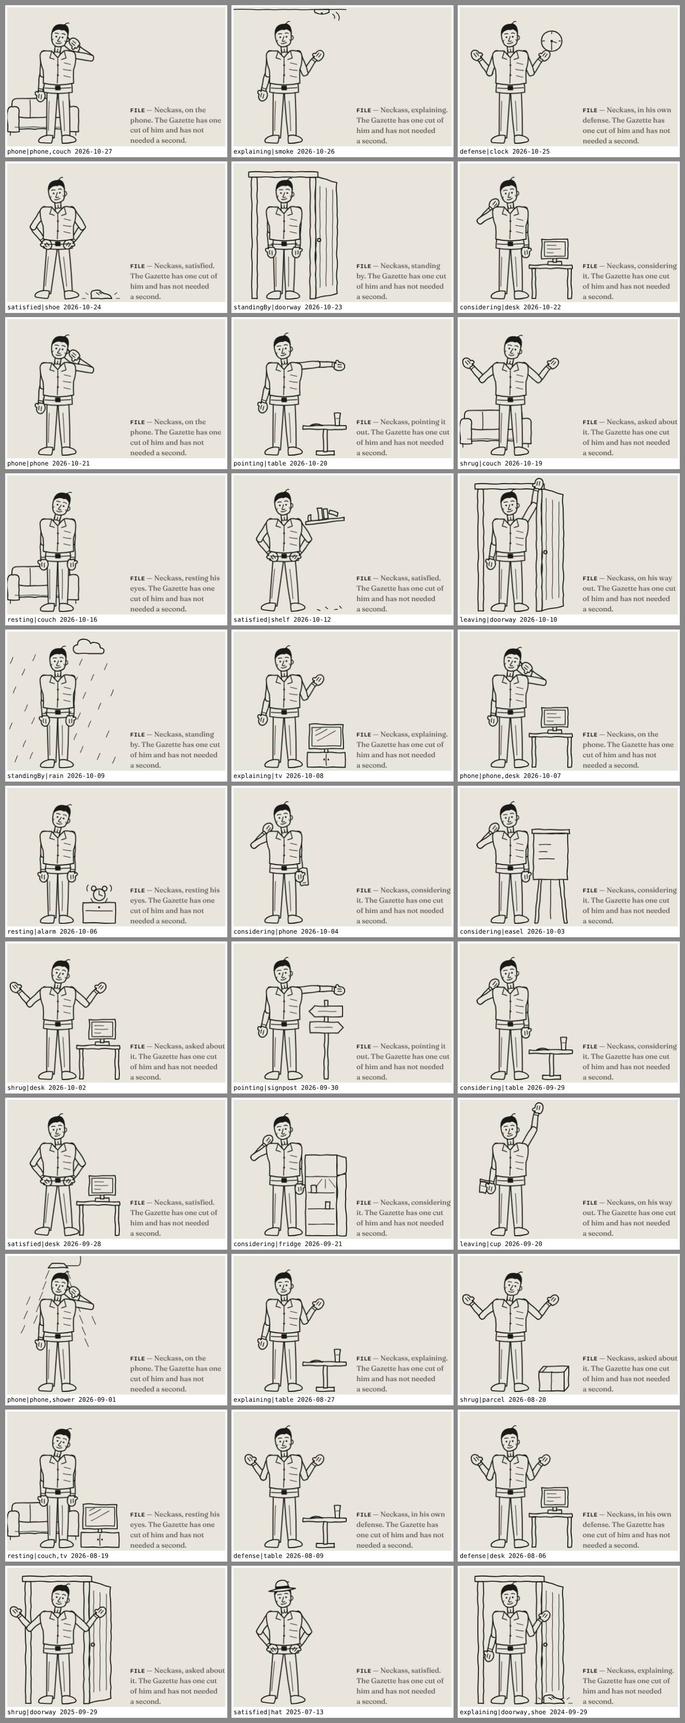
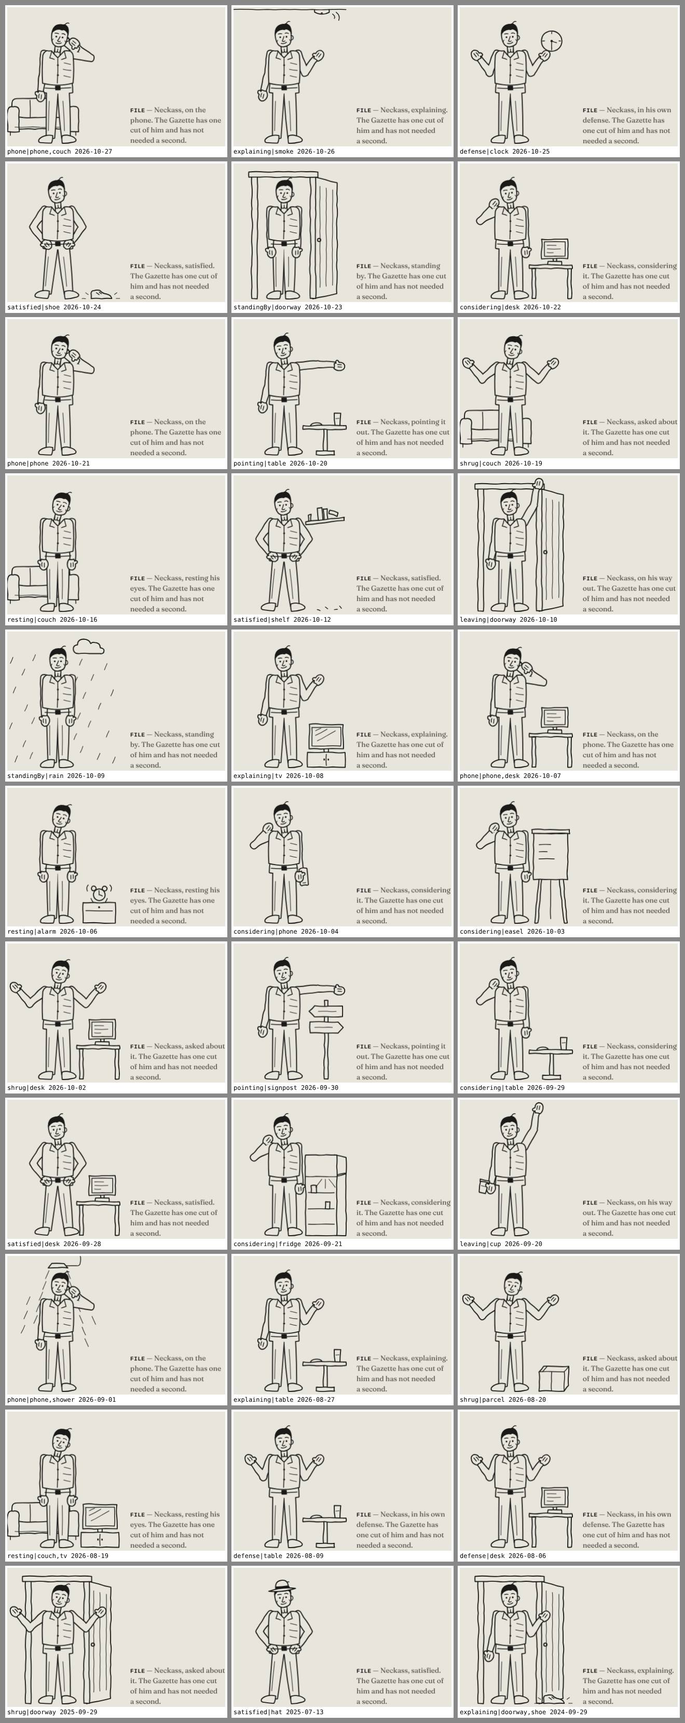
design: no line where a pen would not draw one
The cut drew every piece's whole edge, so wherever two pieces met there
was a line no one would draw:

- A seam across each elbow, where the end of the upper arm lay over the
  forearm. Each arm is now one shape: its edges drawn first at twice the
  weight (.outline), its fills over them (.body), so only the outside of
  the whole shows, and a bent elbow is a bend in the sleeve.
- A line across the trousers under the belt, where the hips ended. The
  legs and the hips are one shape the same way.
- A cuff line beside the wrist line. The hand's own edge is the end of
  the sleeve; the cuffs are gone.
- The arm's edge running along the jacket's edge, a doubled line down
  each side. The jacket is narrower, so the arms hang beside it with
  room between, and their round tops are his shoulders.
- Doubled edges in the props, where one piece's edge lay along
  another's: the monitor's foot on the desk, the television's stand, the
  plate and the glass on the table, the doorposts under the lintel, the
  door against its post, the fridge doors against the body, the books on
  the shelf, the cup's lid on the cup, the smoke alarm on the ceiling,
  and every shared edge of the parcel. Each is tucked under the piece it
  meets, or drawn as one outline with its inner edges drawn once.

The new classes are in the rig, the page and the card alike, and the
three copies are still one generated source. The still cards are
redrawn.
[…]

diff --git a/index.html b/index.html
@@ -106,11 +106,11 @@
                             <svg class="cut-figure" id="cut-figure" viewBox="0 0 182 278" width="182" height="278" role="img" aria-label="Line-cut of a man standing with one hand raised, explaining.">
                                 <g class="scene">
                                     <g class="scene-doorway">
-                                        <path class="part" d="M146 -2.3 q11.8 3.7 24 6.4 q11.3 5.4 23.6 7.6 q-2.6 12.4 -0.4 24.8 q1 12.4 0.7 24.8 q0.9 12.4 0.2 24.8 q2.2 12.4 0 24.8 q2 12.4 -0.2 24.8 q0.8 12.4 -0.2 24.8 q-1.7 12.4 0.8 24.8 q1.1 12.4 -1 24.8 q-1.5 12.4 1.1 24.8 q-2 12.4 -0.2 24.8 q-11.6 4.5 -24 5.1 q-12.3 1.2 -24 5.4 q1.3 -13.6 0.1 -27.3 q-2.1 -13.6 -0.3 -27.3 q-1.1 -13.6 0 -27.3 q2.1 -13.6 -0.1 -27.3 q2.2 -13.6 0.5 -27.3 q-1.5 -13.6 -0.8 -27.3 q-0.5 -13.6 0.4 -27.3 q-0.4 -13.6 -0.5 -27.3 q0 -13.6 0.5 -27.3 q-0.4 -13.6 -0.3 -27.3 z" />
+                                        <path class="part" d="M139.9 -2.1 q13.5 3.7 27.2 6.9 q13.1 5.2 27.1 7.1 q0.4 12.4 -0.7 24.8 q2.1 12.4 -0.1 24.8 q2.2 12.4 1.2 24.8 q-2.4 12.4 -1.2 24.8 q0.3 12.4 0.1 24.8 q2.6 12.4 0.6 24.8 q-0.8 12.4 -0.1 24.8 q-2.1 12.4 0.3 24.8 q0 12.4 -0.4 24.8 q-1.7 12.4 -0.4 24.8 q-13.3 3.4 -26.7 6.2 q-13.7 1.7 -26.8 5.6 q1.3 -12.4 -0.4 -24.9 q2.1 -12.4 -0.4 -24.9 q2.2 -12.4 0.8 -24.9 q1 -12.4 -0.6 -24.9 q-1.1 -12.4 0.4 -24.9 q0.4 -12.4 0.4 -24.9 q-1.3 -12.4 -0.7 -24.9 q-0.5 -12.4 0.1 -24.9 q-1.9 -12.4 0 -24.9 q-2 -12.4 -0.4 -24.9 q-1.2 -12.4 0.4 -24.9 z" />
                                         <circle class="part" cx="154" cy="140" r="3.5" />
                                         <path class="hatch" d="M155.9 20 q-0.2 12.6 0.3 25.1 q-1.4 12.6 -0.6 25.1 q0.1 12.6 0.4 25.1 q1 12.6 -0.4 25.1 q1 12.6 0.5 25.1 q-0.7 12.6 -0.1 25.1 q1 12.6 -0.2 25.1 q0.3 12.6 -0.1 25.1 q1.3 12.6 0.3 25.1 m13.7 -222.2 q1.2 13.8 0 27.5 q0.8 13.8 -0.1 27.5 q0.8 13.8 -0.1 27.5 q-0.4 13.8 0.5 27.5 q1 13.8 -0.2 27.5 q0.9 13.8 0.2 27.5 q0.6 13.8 -0.5 27.5 q-0.9 13.8 0.3 27.5 m14.4 -216.1 q0.1 13.4 0.2 26.7 q-0.9 13.4 -0.1 26.7 q0.5 13.4 -0.5 26.7 q0.7 13.4 -0.1 26.7 q-0.9 13.4 0.1 26.7 q-0.7 13.4 0.1 26.7 q-0.6 13.4 0.2 26.7 q0.5 13.4 -0.2 26.7" />
-                                        <path class="part" d="M4.1 -0.3 q5.8 -1.2 11.5 0.3 q0.4 13.5 0.7 27.1 q-2.1 13.6 0.1 27.1 q-2.3 13.6 -0.8 27.1 q2.1 13.5 0.2 27.1 q1.9 13.5 -0.5 27.1 q1.3 13.5 1.2 27.1 q-0.8 13.5 -0.3 27.1 q-1.3 13.5 0.4 27.1 q-1.1 13.5 0 27.1 q-2 13.6 -0.5 27.1 q-5.9 -0.8 -11.9 -0.2 q0.3 -13.6 -0.7 -27.1 q0.2 -13.6 0.8 -27.1 q0.3 -13.6 0.4 -27.1 q-2 -13.6 -1.1 -27.1 q2.5 -13.6 0.4 -27.1 q-0.5 -13.6 -0.7 -27.1 q0.3 -13.6 0.1 -27.1 q1.2 -13.6 0.6 -27.1 q-2.3 -13.6 -0.7 -27.1 q-1.8 -13.6 0.5 -27.1 z" />
-                                        <path class="part" d="M133.9 0.4 q6.2 -0.6 12.4 0 q1 13.5 -0.6 27.1 q-1.9 13.5 -0.2 27.1 q-1.3 13.5 0.4 27.1 q1.5 13.5 -0.4 27.1 q1.9 13.5 1.2 27.1 q-1.1 13.5 -0.3 27.1 q-2.6 13.5 -0.7 27.1 q2.4 13.5 0 27.1 q2 13.5 0.9 27.1 q1 13.5 -0.8 27.1 q-6 -0.2 -12 0.1 q0.7 -13.5 0.1 -27.1 q-2.1 -13.5 0.6 -27.1 q-1.6 -13.5 -0.1 -27.1 q-1.6 -13.5 -0.8 -27.1 q2.1 -13.5 1 -27.1 q-2 -13.5 0 -27.1 q-0.7 -13.5 -0.2 -27.1 q-0.9 -13.5 -0.2 -27.1 q0.7 -13.5 -0.2 -27.1 q-1.2 -13.5 -0.2 -27.1 z" />
+                                        <path class="part" d="M3.9 -6 q6.3 -1.6 12.6 0.3 q-0.6 12.6 0.4 25.2 q-0.4 12.6 -0.8 25.2 q2.3 12.6 0.8 25.2 q1.2 12.6 -0.1 25.2 q-1.3 12.6 0 25.2 q0.3 12.6 -0.9 25.2 q-0.7 12.6 -0.2 25.2 q0.9 12.6 0.7 25.2 q0.1 12.6 -0.5 25.2 q-0.1 12.6 0.3 25.2 q0.8 12.6 -0.4 25.2 q-6 -0.1 -11.9 -0.6 q-1.4 -12.6 0.2 -25.1 q-0.2 -12.6 -0.8 -25.1 q-1.8 -12.6 0.6 -25.1 q-0.2 -12.6 0.8 -25.1 q0.2 -12.6 -1.1 -25.1 q-0.2 -12.6 0.9 -25.1 q2.2 -12.6 0.2 -25.1 q-2.5 -12.6 -0.4 -25.1 q-2.1 -12.6 -0.1 -25.1 q1.1 -12.6 -0.1 -25.1 q-1.9 -12.6 0 -25.1 z" />
+                                        <path class="part" d="M134.4 -6.3 q5.8 0.8 11.5 0 q0.7 12.6 0.7 25.2 q0 12.6 -0.7 25.2 q1.1 12.6 0.1 25.2 q1.8 12.6 -0.3 25.2 q-0.6 12.6 0.1 25.2 q-0.4 12.6 -0.1 25.2 q0 12.6 -0.1 25.2 q-0.3 12.6 0.1 25.2 q-1.3 12.6 1.2 25.2 q0.2 12.6 0.1 25.2 q0.8 12.6 -0.6 25.2 q-6.1 -0.8 -12.1 -0.4 q-0.8 -12.6 -0.2 -25.2 q0.7 -12.6 0.5 -25.2 q-2.7 -12.6 -0.7 -25.2 q-0.7 -12.6 0.8 -25.2 q2.2 -12.6 0.6 -25.2 q0.4 -12.6 -1.3 -25.2 q0.3 -12.6 1 -25.2 q-2.6 -12.6 -0.8 -25.2 q-0.6 -12.6 0.2 -25.2 q2.7 -12.6 0.7 -25.2 q-2.5 -12.6 -0.3 -25.2 z" />
                                         <path class="part" d="M-2.3 -12.1 q12.8 -1.3 25.6 -0.5 q12.8 1.3 25.6 0.6 q12.8 -1.6 25.6 -0.5 q12.8 -0.9 25.6 0.3 q12.8 -1.5 25.6 -0.4 q12.8 -0.9 25.6 0.6 q0 5.9 0.1 11.8 q-12.8 -0.2 -25.7 0.2 q-12.8 -2.1 -25.7 -0.4 q-12.8 -0.4 -25.7 -0.6 q-12.8 2 -25.7 0.5 q-12.8 -1.6 -25.7 -0.1 q-12.8 -0.3 -25.7 0.1 q-0.9 -5.8 0 -11.7 z" />
                                     </g>
                                     <g class="scene-couch">
@@ -123,20 +123,20 @@
                                         <path class="hatch" d="M-19.8 235.8 q14 1.1 28 0 q14 -0.9 28 0.4 q14 0.5 28 0.2 q14 -0.6 28 -0.2" />
                                     </g>
                                     <g class="scene-fridge">
+                                        <path class="part" d="M187.9 140.4 q13.5 -2 26.3 -6.6 q-1 13.8 -0.4 27.6 q-0.3 13.8 -0.3 27.6 q0.7 13.8 -0.1 27.6 q2.6 13.8 0.8 27.6 q0.5 13.8 -0.5 27.6 q-12.9 0.4 -25.7 -0.8 q2.2 -13.1 0.7 -26.1 q1.7 -13.1 -0.9 -26.1 q1.8 -13.1 0.8 -26.1 q-2 -13.1 -0.9 -26.1 q2.4 -13.1 0.2 -26.1 z" />
+                                        <path class="part" d="M188.3 91.7 q13.1 2.2 25.9 5.9 q1.3 17.4 0.2 34.7 q-13.5 1.1 -26 6.1 q-0.6 -11.7 0.7 -23.4 q-1.8 -11.7 -0.7 -23.4 z" />
                                         <path class="part" d="M123.8 92.1 q11.7 -0.3 23.3 -0.2 q11.7 1.6 23.3 -0.4 q11.7 0.8 23.3 0.7 q0.9 12.8 -0.4 25.6 q1.5 12.8 0.8 25.6 q-1.6 12.8 -0.7 25.6 q-0.9 12.8 0.6 25.6 q-0.5 12.8 -1 25.6 q-0.5 12.8 0.7 25.6 q0.9 12.8 -0.1 25.6 q-11.6 -0.1 -23.2 0.6 q-11.6 -0.5 -23.2 -0.4 q-11.6 0.4 -23.2 -0.4 q1.1 -12.8 0 -25.5 q0.1 -12.8 -0.6 -25.5 q1.3 -12.8 0.6 -25.5 q2.1 -12.8 -0.3 -25.5 q-1.1 -12.8 -0.5 -25.5 q-0.5 -12.8 0 -25.5 q-1.7 -12.8 0.4 -25.5 z" />
                                         <path class="detail" d="M123.9 140 q11.6 0.9 23.3 -0.2 q11.6 0 23.3 0.4 q11.6 0.4 23.3 0" />
                                         <path class="detail" d="M129.9 175.8 q14.5 -0.3 28.9 0.4 q14.5 1 28.9 -0.2 m-58.1 36.3 q14.5 -0.7 29 -0.5 q14.5 0.7 29 0 m-57.5 34.4 q14.4 0.7 28.9 -0.1 q14.4 -0.1 28.9 0.1" />
                                         <path class="part" d="M135.8 160.4 q6.3 -2.1 12.6 0 q-0.8 8 0 16.1 q-6 -0.5 -12 -0.4 q1.3 -7.9 -0.5 -15.6 z" />
                                         <path class="part" d="M168.4 196.1 q4.9 1 9.9 0.2 q-0.7 7.8 -0.6 15.6 q-5 1 -9.9 -0.3 q1.2 -7.7 0.6 -15.5 z" />
                                         <path class="hatch" d="M160 146.1 q-6.8 9 -13.9 17.9 m21.8 -17.9 q0.5 10.1 -0.2 20.2 m8.2 -20.3 q7.6 8.5 13.9 18" />
-                                        <path class="part" d="M194 139.7 q9.3 -4.8 19.7 -5.3 q0.1 13.7 0.8 27.5 q-2.6 13.8 -0.9 27.5 q-1.9 13.7 0.1 27.5 q2.4 13.7 1.1 27.5 q1.3 13.7 -0.4 27.5 q-10.3 1.8 -20.3 -1.1 q-0.8 -13.1 0 -26.2 q-0.6 -13.1 -0.7 -26.2 q-1.7 -13.1 0.1 -26.2 q2.7 -13.1 1.2 -26.2 q-2 -13.1 -0.7 -26.2 z" />
-                                        <path class="part" d="M193.9 92.2 q9.7 3.7 20 5.5 q1.9 16.9 0.3 33.9 q-9.5 4.7 -20 6.1 q-0.6 -11.4 0 -22.7 q-0.3 -11.4 -0.3 -22.7 z" />
                                     </g>
                                     <g class="scene-tv">
+                                        <path class="part" d="M165.8 226.1 q4.1 1 8.2 0.3 q1.9 6.7 0.2 13.4 q-4.1 0.1 -8.3 0.3 q-2 -7 -0.2 -14 z" />
                                         <path class="part" d="M128.1 237.9 q14 0.7 27.9 0.2 q14 -1.3 27.9 -0.2 q14 2.4 27.9 0.2 q1.5 16.5 0.4 33.1 q-14.1 0.3 -28.1 -0.7 q-14.1 1.9 -28.1 0 q-14.1 0.9 -28.1 0.1 q-1.1 -16.3 0.2 -32.6 z" />
                                         <path class="detail" d="M170.1 242.1 q-1.1 12.6 0 25.1" />
                                         <path class="solid" d="M163.8 251.7 l3.4 0.3 q-0.4 2 -0.3 4.1 l-3 -0.4 q0.1 -2 -0.1 -4 z m9.1 0.1 l3 0.3 l0.3 4 l-3.1 -0.4 l-0.1 -3.9 z" />
-                                        <path class="part" d="M165.7 228.2 q4 -0.8 8 -0.2 q-0.7 5.2 0 10.4 q-4 -0.5 -7.9 -0.6 q1.2 -4.8 0 -9.6 z" />
                                         <path class="part" d="M132.2 175.6 q12.6 -2.4 25.2 -0.3 q12.6 1.1 25.1 1.2 q12.6 -0.9 25.2 -0.3 q-2.1 13.5 -0.2 26.9 q1.2 13.4 0.8 26.9 q-12.8 -0.5 -25.5 -0.6 q-12.8 0.7 -25.5 1.2 q-12.8 -1.8 -25.5 -0.5 q-0.4 -13.6 0.1 -27.3 q1.9 -13.6 0.5 -27.3 z" />
                                         <path class="detail" d="M137.8 182.2 q16.1 1 32.2 -0.5 q16.1 -0.1 32.2 0.1 q0.6 10.6 0.3 21.1 q1 10.6 -0.4 21.1 q-16.1 -1.4 -32.1 -0.3 q-16.1 0.6 -32.1 0.1 q0.1 -10.4 0.1 -20.8 q1.3 -10.4 -0.1 -20.8 z" />
                                         <path class="hatch" d="M146.2 189.8 q5.6 -3.3 11.7 -5.6 m-12.1 16 q13.5 -6 26.1 -13.8 m-21.9 25.9 q10.6 -4.6 20.3 -10.8 q9.9 -5.8 20 -11.4" />
@@ -144,20 +144,20 @@
                                     <g class="scene-desk">
                                         <path class="part" d="M123.7 204.2 q4.3 -0.6 8.7 -0.1 q-1.9 11.1 0.2 22.2 q-1.5 11.1 0.3 22.2 q0.8 11.1 -0.4 22.2 q-4.2 -0.4 -8.3 0.2 q1.6 -11.1 0.3 -22.2 q-1 -11.1 0 -22.2 q0.8 -11.1 -0.7 -22.2 z" />
                                         <path class="part" d="M203.7 204.2 q4.2 -0.6 8.4 0.1 q-0.6 11.1 -0.5 22.1 q-1.1 11.1 0.8 22.1 q1.5 11 0 22.1 q-4.2 1 -8.5 0.4 q0.1 -11.1 0.5 -22.3 q-2 -11.1 -1 -22.3 q2.2 -11.1 0.2 -22.3 z" />
+                                        <path class="part" d="M170.9 180.4 q4.2 0.1 8.4 -0.1 q-0.3 5.6 -0.3 11.3 q-4.1 -0.3 -8.2 0.4 q1.8 -5.7 0.2 -11.5 z" />
+                                        <path class="part" d="M159.9 187.9 q15.1 -0.3 30.3 0.1 q0.8 4.9 0.1 9.7 q-15.3 -0.1 -30.5 0.3 q-1.4 -5.1 0.2 -10.1 z" />
                                         <path class="part" d="M118.3 195.6 q11.9 2.2 23.8 0.2 q11.9 -1.6 23.8 -0.5 q11.9 0.4 23.8 1 q11.9 0.7 23.8 0 q1.1 3.7 0.8 7.5 q-12 1.2 -24 -0.5 q-12 -1.6 -24 1 q-12 -2 -24 -0.5 q-12 -1.7 -24 -0.1 q-0.6 -4.1 0 -8.2 z" />
-                                        <path class="part" d="M160.2 188.2 q14.9 0.1 29.8 -0.5 q0.8 4.2 0.4 8.4 q-15.4 -0.1 -30.7 -0.6 q-0.9 -3.8 0.5 -7.3 z" />
-                                        <path class="part" d="M171 179.9 q4.1 -0.3 8.2 -0.3 q-0.3 5.2 -0.5 10.4 q-3.7 -1.1 -7.4 0 q-0.6 -5.1 -0.3 -10.1 z" />
                                         <path class="part" d="M145.6 138.2 q14.5 2.2 29 -0.1 q14.5 0.1 29 -0.2 q2 11 0.4 22 q1.1 11 -0.2 22 q-14.6 -2.3 -29.1 -0.3 q-14.6 -0.9 -29.1 0.8 q-1.7 -11.1 0.3 -22.1 q2.1 -11.1 -0.3 -22.1 z" />
                                         <path class="detail" d="M152 144 q11.6 0 23.1 -0.5 q11.6 0.1 23.1 0.4 q0.5 16.1 -0.2 32.2 q-11.5 0.2 -23 -0.2 q-11.5 1.2 -23 0.4 q-0.4 -16.1 -0.2 -32.3 z" />
                                         <path class="hatch" d="M157.7 151.9 q10.3 -0.1 20.5 0.1 m-20 7.9 q14.8 1 29.6 0 m-30.2 8 q7.1 1.1 14.2 0.4" />
                                     </g>
                                     <g class="scene-table">
+                                        <path class="part" d="M164 209.9 q3.9 0 7.8 0.3 q0.1 14 0.3 27.9 q0.5 14 -0.1 27.9 q-3.9 -1.1 -7.7 0.2 q-2.4 -14.1 -0.3 -28.2 q2 -14.1 0 -28.2 z" />
                                         <path class="part" d="M147.9 262.4 q10 0.5 20 -0.5 q10 1.9 20 0.4 q-1.2 4.6 0.4 9 q-10.2 -0.6 -20.3 0.4 q-10.2 0.9 -20.3 -0.8 q0.3 -4.2 0.2 -8.4 z" />
-                                        <path class="part" d="M164.4 214 q4 -1 8 0.3 q-0.6 12.4 -0.2 24.9 q0.7 12.4 0 24.9 q-4.1 -0.1 -8.2 0.3 q0.3 -12.6 -0.2 -25.2 q-2 -12.6 0.6 -25.2 z" />
-                                        <path class="part" d="M118.4 206 q11.9 2.3 23.9 0.3 q11.9 -2.1 23.9 -0.8 q11.9 -0.6 23.9 0.1 q11.9 0.6 23.9 0.5 q1.3 3.8 0.3 7.7 q-12.1 1.5 -24.1 0.7 q-12.1 1.9 -24.1 -0.7 q-12.1 1.4 -24.1 0.1 q-12.1 -1.1 -24.1 0.3 q-0.5 -4.1 0.7 -8.1 z" />
-                                        <path class="part" d="M134 206.3 q13.7 -8.2 27.9 -0.1 q-14 -1.6 -27.9 0.1 z" />
-                                        <path class="part" d="M187.9 178.1 q6.9 -1.2 13.7 0.2 q-2.7 13.5 -2.1 27.3 q-4.6 1.3 -9.2 0 q-0.7 -13.9 -2.4 -27.6 z" />
+                                        <path class="part" d="M134.2 209.1 q0.6 -9 14.1 -9.4 q12.5 -0.4 13.9 9.6 q-14 -2.2 -27.9 -0.1 z" />
+                                        <path class="part" d="M187.8 178.3 q7.2 -0.2 14.4 0.1 q-1.6 15.2 -1.8 30.5 q-5.1 1 -10.2 0.4 q-3.2 -15.3 -2.5 -31 z" />
                                         <path class="hatch" d="M191.2 190.3 q3.9 0.1 7.7 -0.5" />
+                                        <path class="part" d="M118.4 206 q11.9 2.3 23.9 0.3 q11.9 -2.1 23.9 -0.8 q11.9 -0.6 23.9 0.1 q11.9 0.6 23.9 0.5 q1.3 3.8 0.3 7.7 q-12.1 1.5 -24.1 0.7 q-12.1 1.9 -24.1 -0.7 q-12.1 1.4 -24.1 0.1 q-12.1 -1.1 -24.1 0.3 q-0.5 -4.1 0.7 -8.1 z" />
                                     </g>
                                     <g class="scene-easel">
                                         <path class="part" d="M140.2 169.9 q3.4 -0.1 6.7 -0.1 q-3.4 12.4 -3 25.2 q-1.7 12.6 -1.7 25.3 q-1.9 12.5 -3.1 25.2 q1.3 12.9 -1.8 25.3 q-3.4 1.1 -6.9 0.5 q1.7 -12.6 2.3 -25.4 q-0.2 -12.8 2.6 -25.3 q0.1 -12.8 2.4 -25.4 q1.8 -12.6 2.4 -25.4 z" />
@@ -174,10 +174,10 @@
                                         <path class="hatch" d="M152.2 120.1 q10 -0.6 20 -0.2 q10 1.2 20 0.2 m-48.3 35.6 q10 -0.5 20 0.2 q10 -1 20 -0.1" />
                                     </g>
                                     <g class="scene-shelf">
-                                        <path class="part" d="M130.1 58 q3.1 -0.1 5.6 -1.8 q-0.9 7.1 0.5 14.2 q-3.1 0.4 -5.9 2 q-2.1 -7.1 -0.3 -14.3 z" />
+                                        <path class="part" d="M129.9 57.8 q3 -1.9 6.4 -2.2 q-2.3 10.1 0.1 20.1 q-3.7 -0.1 -6.8 2 q2.3 -9.9 0.2 -19.9 z" />
+                                        <path class="part" d="M150 42 q5.1 -0.4 10.1 -1.4 q1.8 15 2.7 30.1 q-4.9 1.6 -10.1 1.2 q-2 -14.9 -2.7 -29.9 z" />
+                                        <path class="part" d="M163 43.8 q4.6 0.7 9.1 -0.7 q-1.1 13.1 1.7 25.9 q-4.1 1.5 -8.4 1.1 q0.2 -13.3 -2.4 -26.4 z" />
                                         <path class="part" d="M124.2 72.3 q14.1 -3.7 28.7 -3.2 q14.4 -1 28.6 -4.1 q14.6 0.4 28.7 -2.9 q-1.2 3.6 -0.2 7.2 q-14.4 0.3 -28.6 2.7 q-14.1 2.7 -28.5 3.7 q-14.1 2.6 -28.5 3 q-0.6 -3.1 -0.2 -6.2 z" />
-                                        <path class="part" d="M149.6 42.1 q5.1 -0.6 10.2 -0.7 q0.5 13 2.9 25.7 q-4.9 1.1 -9.9 1.1 q0.7 -13.4 -3.3 -26.2 z" />
-                                        <path class="part" d="M162.9 44 q4.6 -0.8 9.2 -0.7 q0.8 11 2.2 22 q-4.6 -0.5 -9.1 0.5 q-0.9 -10.9 -2.3 -21.8 z" />
                                         <path class="part" d="M178 46.3 q9.6 1.3 18.2 5.9 q-1.1 4 -1.9 8.1 q-8.7 -4.9 -18.5 -6.4 q0.1 -4.1 2.1 -7.6 z" />
                                         <path class="detail" d="M149.9 267.8 q3.4 0.7 6.4 2.4 m11.7 -8 q2.7 1.8 5.1 4 m14.9 1.8 q3.4 -0.6 6.9 -0.8 m4.8 -7.1 q2.4 2.3 4.1 5.1" />
                                     </g>
@@ -201,9 +201,8 @@
                                         </g>
                                     </g>
                                     <g class="scene-parcel">
-                                        <path class="part" d="M140.1 228 q14 -0.4 28 -0.5 q14 -1.1 28 0.1 q2.1 10.9 0.1 21.8 q-0.7 10.9 0 21.8 q-14 -1.3 -28 -0.2 q-14 -0.4 -28 0.1 q1.8 -10.8 0.4 -21.6 q-2.1 -10.8 -0.5 -21.6 z" />
-                                        <path class="part" d="M139.7 228.3 q4.8 -6.4 10.1 -12.4 q14 0.6 28.1 -0.3 q14 -1.3 28.1 0.3 q-3.4 7.2 -9.6 12.3 q-14.2 2.2 -28.4 0.7 q-14.2 0.7 -28.4 -0.6 z" />
-                                        <path class="part" d="M195.8 228.4 q4.9 -6.4 9.8 -12.8 q1.3 10.8 0.3 21.6 q-1.2 10.8 0.4 21.6 q-3.8 7 -10.1 11.8 q-0.4 -10.6 -0.1 -21.2 q-0.6 -10.6 -0.2 -21.2 z" />
+                                        <path class="part" d="M139.9 228.4 q6.1 -5.7 10.3 -12.8 q14 -0.4 28 0.4 q14 1.2 28 -0.2 q0.5 10.7 -0.7 21.4 q-1.1 10.7 0.1 21.4 q-5.8 5.6 -9.8 12.7 q-14 1.1 -28 -0.5 q-14 -1.8 -28 0.7 q1.5 -10.7 0.7 -21.5 q1.5 -10.7 -0.6 -21.5 z" />
+                                        <path class="detail" d="M139.8 227.9 q14 -0.8 28 -0.4 q14 0.7 28 0.5 q5.8 -5.4 10.2 -11.9 m-9.8 11.6 q1.2 10.8 0.1 21.5 q-1.3 10.8 -0.4 21.5" />
                                         <path class="detail" d="M168.1 227.8 q-0.9 10.8 -0.3 21.6 q-1.3 10.8 -0.1 21.6 m-9.7 -55.1 q-5.1 6.1 -10.2 12" />
                                     </g>
                                     <g class="scene-shoe">
@@ -221,29 +220,42 @@
                                         <path class="hatch" d="M56.2 1.8 q-3.8 9 -7.9 17.9 m1.4 6.1 q-3.7 9.1 -7.5 18.2 m0 5.7 q-3.8 9.2 -8 18.2 m1.6 7.8 q-4.8 8.8 -7.9 18.3 m2.3 7.9 q-3.6 9.1 -8 17.8 m-8.3 -59.6 q-3.5 9 -7.8 17.6 m2.1 14.2 q-4.1 8.9 -8 17.8 m2.1 14.3 q-3.5 9.3 -8.5 17.8 m102.3 -140.1 q4.4 8.8 7.8 18.1 m-2.1 6 q3.4 9.5 8.3 18.3 m0 5.5 q3.2 9.6 8.2 18.4 m-0.4 8.1 q3.7 9 8.3 17.6 m-2 8 q3.7 9.1 7.8 18.1 m-1.9 8.1 q3.1 9.3 7.7 17.8 m-1.7 8.1 q4 8.9 8 17.8 m1.9 -101.9 q4.3 9 7.8 18.4 m-1.7 15.9 q3.9 9.1 8.1 18.1" />
                                     </g>
                                     <g class="scene-smoke">
+                                        <path class="part" d="M143.7 -25.8 q0 2.8 0.3 5.5 q16.3 8.9 32.4 0.5 q0.6 -3.1 -0.2 -6.1" />
                                         <path class="detail" d="M-36 -26.1 q12.5 -1.2 25 -0.3 q12.5 -0.3 25 0.7 q12.5 0.2 25 -0.4 q12.5 1 25 0.2 q12.5 -0.5 25 0 q12.5 -0.9 25 0.2 q12.5 0 25 -0.6 q12.5 1.2 25 0.6 q12.5 -0.6 25 -0.4 q12.5 -0.7 25 0.2" />
-                                        <path class="part" d="M143.8 -26.1 q16.2 -0.4 32.4 -0.4 q-0.2 3.4 0 6.8 q-16.1 8 -31.7 0 q-1 -3.2 -0.6 -6.5 z" />
                                         <path class="solid" d="M157.9 -20 l3.9 0.3 l0.4 2.5 q-2.1 0.5 -4.2 0.2 l0 -3 z" />
                                         <path class="detail" d="M184 -16.1 q6.7 4.6 4 10 m4.1 -14 q9.9 7.7 5.6 18.2" />
                                     </g>
                                 </g>
                                 <g transform="translate(-24 -6)">
+                                    <!-- legs and hips, one outline: the edges, then the fills over them -->
                                     <g class="joint-leg-far">
-                                        <path class="part" d="M100.2 155.8 q-0.5 -10.9 12.1 -12.2 q11.6 -0.6 11.6 12.7 q0.5 55.3 -3 109.7 q-8.6 1.5 -17.2 0.3 q-4.2 -54.9 -3.5 -110.6 z" />
+                                        <path class="outline" d="M100.2 155.8 q-0.5 -10.9 12.1 -12.2 q11.6 -0.6 11.6 12.7 q0.5 55.3 -3 109.7 q-8.6 1.5 -17.2 0.3 q-4.2 -54.9 -3.5 -110.6 z" />
+                                    </g>
+                                    <g class="joint-leg-near">
+                                        <path class="outline" d="M75.8 155.7 q0 -12.3 12.5 -11.3 q12.1 -0.1 11.5 11.7 q-1.8 54.1 -4.1 109.7 q-8.2 0.1 -16.8 0.6 q-2.1 -56.4 -3.1 -110.6 z" />
+                                    </g>
+                                    <path class="outline" d="M70.4 139.2 q29.9 -3 59.6 -1.3 q2.2 12.6 2.1 26.4 q-32.6 5.5 -64.2 -0.4 q-0.1 -12.6 2.5 -24.8 z" />
+                                    <g class="joint-leg-far">
+                                        <path class="body" d="M100.2 155.8 q-0.5 -10.9 12.1 -12.2 q11.6 -0.6 11.6 12.7 q0.5 55.3 -3 109.7 q-8.6 1.5 -17.2 0.3 q-4.2 -54.9 -3.5 -110.6 z" />
                                         <path class="part" d="M104.2 261 q9.3 -2.3 16.4 0.6 q9.8 2.6 13.7 9 q1.2 5.7 -9.4 6.1 q-10.6 2.1 -21.4 0.8 q-1.5 -9.3 0.6 -16.4 z" />
                                         <path class="hatch" d="M109.8 183.7 q0.9 33.7 -0.1 66.4" />
                                     </g>
                                     <g class="joint-leg-near">
-                                        <path class="part" d="M75.8 155.7 q0 -12.3 12.5 -11.3 q12.1 -0.1 11.5 11.7 q-1.8 54.1 -4.1 109.7 q-8.2 0.1 -16.8 0.6 q-2.1 -56.4 -3.1 -110.6 z" />
+                                        <path class="body" d="M75.8 155.7 q0 -12.3 12.5 -11.3 q12.1 -0.1 11.5 11.7 q-1.8 54.1 -4.1 109.7 q-8.2 0.1 -16.8 0.6 q-2.1 -56.4 -3.1 -110.6 z" />
                                         <path class="part" d="M76.2 261.3 q7.9 -2.1 15.8 -0.7 q0.8 10.6 -2.2 16.7 q-10.8 0.8 -21.6 0 q-9 0.7 -6.6 -6.6 q3.9 -6.2 14.6 -9.4 z" />
                                         <path class="hatch" d="M81.7 184.1 q-0.3 33.1 0.4 66.1" />
                                     </g>
-                                    <!-- hips, over the top of both legs -->
-                                    <path class="part" d="M70.4 139.2 q29.9 -3 59.6 -1.3 q2.2 12.6 2.1 26.4 q-32.6 5.5 -64.2 -0.4 q-0.1 -12.6 2.5 -24.8 z" />
+                                    <path class="body" d="M70.4 139.2 q29.9 -3 59.6 -1.3 q2.2 12.6 2.1 26.4 q-32.6 5.5 -64.2 -0.4 q-0.1 -12.6 2.5 -24.8 z" />
+                                    <!-- far arm, one outline -->
                                     <g class="joint-arm-far">
                                         <g class="joint-forearm-far">
-                                            <path class="part" d="M123.5 124.4 q1 -5.8 6.7 -6.7 q5.2 0.6 6.4 6.7 q-1.4 9.8 -0.2 19.8 q0.3 9.9 -1.1 19.7 q-5.3 1.4 -10.5 -0.3 q1.8 -9.9 -0.1 -19.7 q-1.5 -9.8 -1.2 -19.6 z" />
-                                            <path class="detail" d="M125.8 156.7 q4.4 1.3 8.7 0.6" />
+                                            <path class="outline" d="M123.5 124.4 q1 -5.8 6.7 -6.7 q5.2 0.6 6.4 6.7 q-1.4 9.8 -0.2 19.8 q0.3 9.9 -1.1 19.7 q-5.3 1.4 -10.5 -0.3 q1.8 -9.9 -0.1 -19.7 q-1.5 -9.8 -1.2 -19.6 z" />
+                                        </g>
+                                        <path class="outline" d="M122.1 80.3 q0.7 -7.8 8.3 -8.5 q8.6 0.1 7.9 8.2 q-1.6 11 -0.4 22.2 q0.6 11.1 -1.5 22.1 q0.8 6.2 -6.5 6 q-7.2 0.5 -6.8 -5.9 q-0.9 -11 -0.3 -22.1 q0.1 -11 -0.7 -22.1 z" />
+                                    </g>
+                                    <g class="joint-arm-far">
+                                        <g class="joint-forearm-far">
+                                            <path class="body" d="M123.5 124.4 q1 -5.8 6.7 -6.7 q5.2 0.6 6.4 6.7 q-1.4 9.8 -0.2 19.8 q0.3 9.9 -1.1 19.7 q-5.3 1.4 -10.5 -0.3 q1.8 -9.9 -0.1 -19.7 q-1.5 -9.8 -1.2 -19.6 z" />
                                             <g class="scene-phone">
                                                 <path class="part" d="M130.8 155.8 q6.1 -2.1 12.2 -0.1 q3.2 0.6 2.8 2.8 q0.3 16.2 0.1 32.5 q0.9 3.1 -3 3 q-6 -1.8 -12 0.3 q-2 -0.7 -3.2 -3.3 q0.2 -16.1 0.1 -32.2 q0.2 -1.7 3 -3 z" />
                                                 <path class="detail" d="M134.1 188.2 q3.1 0.5 6.1 -0.3" />
@@ -251,21 +263,27 @@
                                             <path class="part" d="M121.9 161.7 q-5.6 6.9 -3.6 16.4 q2.5 8.5 11.3 7.3 q7.4 -2.9 6.3 -12.7 q6 -2.4 4.2 -6.2 q-4.2 -3.1 -5.7 -0.2 q-0.5 -2.4 -1.4 -4.6 q-5.6 1.7 -11.1 0.1 z" />
                                             <path class="detail" d="M125.8 170.3 q-0.1 4.3 -0.1 8.5 m5.2 -9.5 q0.4 5.3 -0.2 8.6" />
                                         </g>
-                                        <path class="part" d="M122.1 80.3 q0.7 -7.8 8.3 -8.5 q8.6 0.1 7.9 8.2 q-1.6 11 -0.4 22.2 q0.6 11.1 -1.5 22.1 q0.8 6.2 -6.5 6 q-7.2 0.5 -6.8 -5.9 q-0.9 -11 -0.3 -22.1 q0.1 -11 -0.7 -22.1 z" />
+                                        <path class="body" d="M122.1 80.3 q0.7 -7.8 8.3 -8.5 q8.6 0.1 7.9 8.2 q-1.6 11 -0.4 22.2 q0.6 11.1 -1.5 22.1 q0.8 6.2 -6.5 6 q-7.2 0.5 -6.8 -5.9 q-0.9 -11 -0.3 -22.1 q0.1 -11 -0.7 -22.1 z" />
+                                    </g>
+                                    <!-- near arm, one outline -->
+                                    <g class="joint-arm-near">
+                                        <g class="joint-forearm-near">
+                                            <path class="outline" d="M63.2 123.9 q-0.1 -6.1 6.6 -6.5 q7.5 0.2 6.5 6.2 q-2 10.1 -0.5 20.4 q-1 10.2 -1.1 20.4 q-5 -1.2 -10.1 -0.5 q-0.3 -10 -1.3 -20 q-2.1 -9.9 -0.1 -20 z" />
+                                        </g>
+                                        <path class="outline" d="M62.4 79.6 q-0.6 -8.2 7.4 -7.9 q8.3 0.3 8.4 8 q1.2 11.1 -1.2 22 q-2.6 10.9 -0.5 22.1 q0.6 6.7 -6.9 6.8 q-6.3 -0.3 -6.4 -6.5 q-1 -11.1 -0.3 -22.2 q-1.8 -11.1 -0.5 -22.2 z" />
                                     </g>
                                     <g class="joint-arm-near">
                                         <g class="joint-forearm-near">
-                                            <path class="part" d="M63.2 123.9 q-0.1 -6.1 6.6 -6.5 q7.5 0.2 6.5 6.2 q-2 10.1 -0.5 20.4 q-1 10.2 -1.1 20.4 q-5 -1.2 -10.1 -0.5 q-0.3 -10 -1.3 -20 q-2.1 -9.9 -0.1 -20 z" />
-                                            <path class="detail" d="M65.3 157.1 q5.2 0.8 9.1 0.1" />
+                                            <path class="body" d="M63.2 123.9 q-0.1 -6.1 6.6 -6.5 q7.5 0.2 6.5 6.2 q-2 10.1 -0.5 20.4 q-1 10.2 -1.1 20.4 q-5 -1.2 -10.1 -0.5 q-0.3 -10 -1.3 -20 q-2.1 -9.9 -0.1 -20 z" />
                                             <g class="scene-cup">
+                                                <path class="part" d="M45.7 159.7 q9 1.6 18 0.6 q-0.3 13.6 -1.9 27 q-7.1 0 -14.2 -0.2 q-3.2 -13.6 -1.9 -27.4 z" />
                                                 <path class="part" d="M43.6 158.1 q11 1 22 0.3 q-0.5 2.1 0.1 4.3 q-10.7 -1.4 -21.3 0.4 q0.3 -2.6 -0.8 -5 z" />
-                                                <path class="part" d="M45.6 163.4 q9 -1.4 18 -0.5 q0.4 12.1 -1.6 24 q-6.8 -2.1 -13.5 0.3 q-3 -11.7 -2.8 -23.8 z" />
                                                 <path class="hatch" d="M49.1 171.8 q6.1 0.8 12.2 0.4" />
                                             </g>
                                             <path class="part" d="M76.7 162.1 q7.1 7.9 3.9 15.7 q-3.6 9.5 -11.5 7.6 q-7.8 -4.3 -6 -12.1 q-5.4 -1.3 -4.5 -7.4 q3.6 -2.9 6.2 -0.1 q0.7 -1.9 1.1 -4 q5.4 1.3 10.8 0.2 z" />
                                             <path class="detail" d="M72.9 170 q0.3 5.3 0.3 9.3 m-5.4 -10.1 q-1.4 5.3 0.3 8.6" />
                                         </g>
-                                        <path class="part" d="M62.4 79.6 q-0.6 -8.2 7.4 -7.9 q8.3 0.3 8.4 8 q1.2 11.1 -1.2 22 q-2.6 10.9 -0.5 22.1 q0.6 6.7 -6.9 6.8 q-6.3 -0.3 -6.4 -6.5 q-1 -11.1 -0.3 -22.2 q-1.8 -11.1 -0.5 -22.2 z" />
+                                        <path class="body" d="M62.4 79.6 q-0.6 -8.2 7.4 -7.9 q8.3 0.3 8.4 8 q1.2 11.1 -1.2 22 q-2.6 10.9 -0.5 22.1 q0.6 6.7 -6.9 6.8 q-6.3 -0.3 -6.4 -6.5 q-1 -11.1 -0.3 -22.2 q-1.8 -11.1 -0.5 -22.2 z" />
                                     </g>
                                     <g class="joint-head">
                                         <path class="part" d="M92.7 54.2 q7.7 -0.1 14.7 -0.1 q-2.1 16.4 0.3 38 q-7.9 1.3 -15.8 -0.1 q2.6 -23.2 0.8 -37.9 z" />
@@ -287,7 +305,7 @@
                                         </g>
                                     </g>
                                     <!-- torso -->
-                                    <path class="part" d="M60.4 86 q-1.7 -14.6 13.3 -13.9 q6.1 0.2 12.2 0.1 q6.5 7.8 13.8 14.9 q5.8 -8.9 14.2 -15.3 q5.9 -1.6 11.7 0.4 q14.3 -0.7 14.1 14.1 q0.5 14.2 -4.8 27.6 q-0.6 15.3 0.2 30 q-34.1 8 -67.7 0 q1.4 -14.4 -0.4 -29.6 q-5.8 -13.3 -6.6 -28.3 z" />
+                                    <path class="part" d="M66.4 81.9 q2.5 -7.7 9.2 -10.3 q5 1.3 10 0.2 q6.3 8.5 14.2 15.6 q7 -7.7 14.4 -15.1 q4.8 -1 9.7 -0.2 q7.9 0.3 10.2 10.2 q2.6 32.4 -0.3 61.5 q-33.2 9 -67.9 0.3 q-1.9 -30.5 0.5 -62.3 z" />
                                     <path class="detail" d="M99.7 88.8 q0.9 28.8 -0.9 55" />
                                     <path class="detail" d="M86.2 72.7 q-1.5 7.7 -4.4 15 q5.5 0.7 10.3 3.3 m22.2 -17.9 q1.9 7.4 4 14.7 q-5.1 1.5 -10.2 3.4" />
                                     <circle class="solid" cx="100" cy="104" r="2" />

diff --git a/styles.css b/styles.css
@@ -914,6 +914,22 @@ a:focus-visible {
     fill: var(--text);
 }
 
+/* Each arm, and the legs with the hips, is one shape: its edges are drawn
+   first at twice the weight and its fills over them, so only the outside
+   of the whole shows, and a bent elbow or the top of a trouser leg draws
+   no line across the sleeve or the seat. */
+.cut-figure .outline {
+    fill: none;
+    stroke: var(--text);
+    stroke-width: 4.4;
+    stroke-linecap: round;
+    stroke-linejoin: round;
+}
+
+.cut-figure .body {
+    fill: var(--surface);
+}
+
 .cut-figure .detail,
 .cut-figure .hatch {
     fill: none;

diff --git a/CHANGELOG.md b/CHANGELOG.md
@@ -6,7 +6,7 @@ The format follows [Keep a Changelog](https://keepachangelog.com/en/1.1.0/).
 
 ## [Unreleased]
 ### Changed
-- The file cut is redrawn by hand, in what looks like a fine-point Sharpie: one black, nearly one weight of line, round ends, no grey hatching, and no line quite straight, the props included. He has a jaw, an ear, eyebrows, a smirk, a cowlick, lapels, mitten hands with thumbs and rounder shoes. The joints are capsules round on their pivots, so a turned elbow or shoulder no longer shows the corner of a rectangle, and the jacket's shoulders cover the tops of the arms. The head is drawn behind the jacket, so the neck shows in the open collar, with his Adam's apple on it. The still cards are redrawn.
+- The file cut is redrawn by hand, in what looks like a fine-point Sharpie: one black, nearly one weight of line, round ends, no grey hatching, and no line quite straight, the props included. He has a jaw, an ear, eyebrows, a smirk, a cowlick, lapels, mitten hands with thumbs and rounder shoes. The joints are capsules round on their pivots, so a turned elbow or shoulder no longer shows the corner of a rectangle, and the round tops of the arms are his shoulders. No line is drawn where a pen would not draw one: each arm, and the legs with the hips, is one outline, so there is no seam at the elbow and no line across the trousers under the belt, and in the props a piece that meets another is tucked under it instead of drawing a second edge along it. The head is drawn behind the jacket, so the neck shows in the open collar, with his Adam's apple on it. The still cards are redrawn.
 - A pass over the whole paper for the jokes everyone has already heard. The stock observations now go one step further: he says "you too" to the pilot and asks where he is staying; thanks the ATM and, offered another transaction, says "no, you've done enough"; documents his digital detox in fourteen posts and a story asking whether anyone noticed he was gone. Briefs that named a habit and stopped now turn (the meal prep is saved by the takeout, the inbox reaches zero by a rule that marks it read, the "sometime" coffee was accepted in August and not answered). Two briefs that restated a lead ("maybe" to his own birthday, the hat after the barber) are new items. The front page's deck no longer repeats its headline: he has said "five minutes away" to eleven people, including his roommate, who was in the room; the standing issue and `og-image.png` carry it. In the leads, the best-man letter no longer contradicts its own deck, the door correction retracts something, and the restaurant hostess offers him a table four times at what turns out to be the wrong restaurant. Everything is rewritten in place, so no pool changes length and no back issue re-deals.
 - The sourced lines in the entry turn, too. Speakers, who were not consulted, describe the neck as a demotion from the head, and no promotions are recorded; the 2036 review did not consult Green's, and its authors, told of it, explained that they had meant a different neck; the 2017 entry's differences from *headass* have not been named since; the December 2017 example is quoted ("I don't [...] know"); and the early instructions to get out, shut up, or stop dancing record no compliance. In the briefs, the victory dance was for the next game, which he lost 21–4, and he saw the lamppost coming.
 - Issue links carry an Article schema for the printed lead, marked as satire, with the issue's permalink and social card. Browser and edge metadata share the same source. Back issues keep their dated canonical URL, and a future issue link describes today's paper instead of presenting an unpublished lead to crawlers. No real-world author or publication timestamp is inferred from the paper's fictional byline or folio.

diff --git a/assets/cuts/README.md b/assets/cuts/README.md
@@ -21,10 +21,17 @@ The file cut is drawn by hand, in one pen: a fine-point marker, so every
 line is the same black at nearly one weight (2.2 for outlines, 1.7 for
 detail, 1.2 for hatching, none of it grey), with round ends and round
 corners, and no line quite straight. Every limb is a capsule whose round
-ends are centred on its pivots, and a forearm's top tucks under the end of
-its upper arm, so an elbow or a shoulder turned to any angle stays a round
-joint. The jacket's shoulders are broad enough to cover the tops of the
-arms. The head is drawn behind the jacket, so the neck shows in the open
+ends are centred on its pivots, so an elbow or a shoulder turned to any
+angle stays a round joint, and the round tops of the arms are his
+shoulders. Each arm, and the legs with the hips, is drawn as one shape:
+its edges first, at twice the weight (`.outline`), then its fills over
+them (`.body`), so only the outside of the whole shows. A bent elbow is a
+bend in the sleeve, not the end of one tube over another, and the hips
+draw no line across the trousers. Elsewhere a piece that meets another
+is tucked under it rather than laid along it: the posts under the
+lintel, the monitor's foot under the desk, the plate under the tabletop,
+the parcel one outline with its inner edges drawn once. No edge is drawn
+twice. The head is drawn behind the jacket, so the neck shows in the open
 collar. The mark on the neck is his Adam's apple; the standards forbid
 explaining the neck. The props are drawn by the same hand.
 

diff --git a/SPECIFICATIONS.md b/SPECIFICATIONS.md
@@ -147,8 +147,10 @@ and pose when inlined. `assets/cuts/README.md` lists the properties.
   theme and the print sheet. It is drawn by hand in one fine-point marker:
   one black, nearly one weight, round ends, no line quite straight. Each
   limb is a capsule round on its pivots, so an elbow or shoulder turned to
-  any angle stays round; the head sits behind the jacket, the neck in its
-  open collar.
+  any angle stays round; each arm, and the legs with the hips, is one
+  outline (edges at double weight, fills over them), so no part draws a
+  line across another, and no edge is drawn twice. The head sits behind
+  the jacket, the neck in its open collar.
 - **The scene** — a lead may also name what its story happens among, from
   `data.SCENES`: a phone, a coffee cup or a hat, which he holds or wears
   and which turn with him; or a couch, a television, a desk, a table, a
